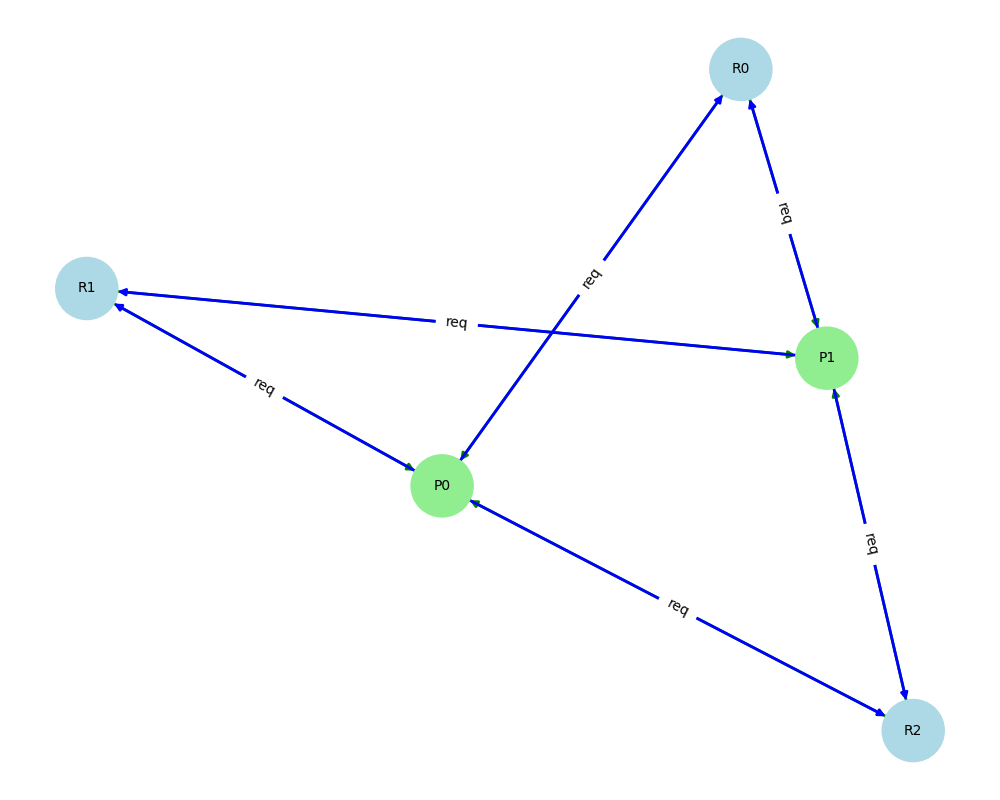
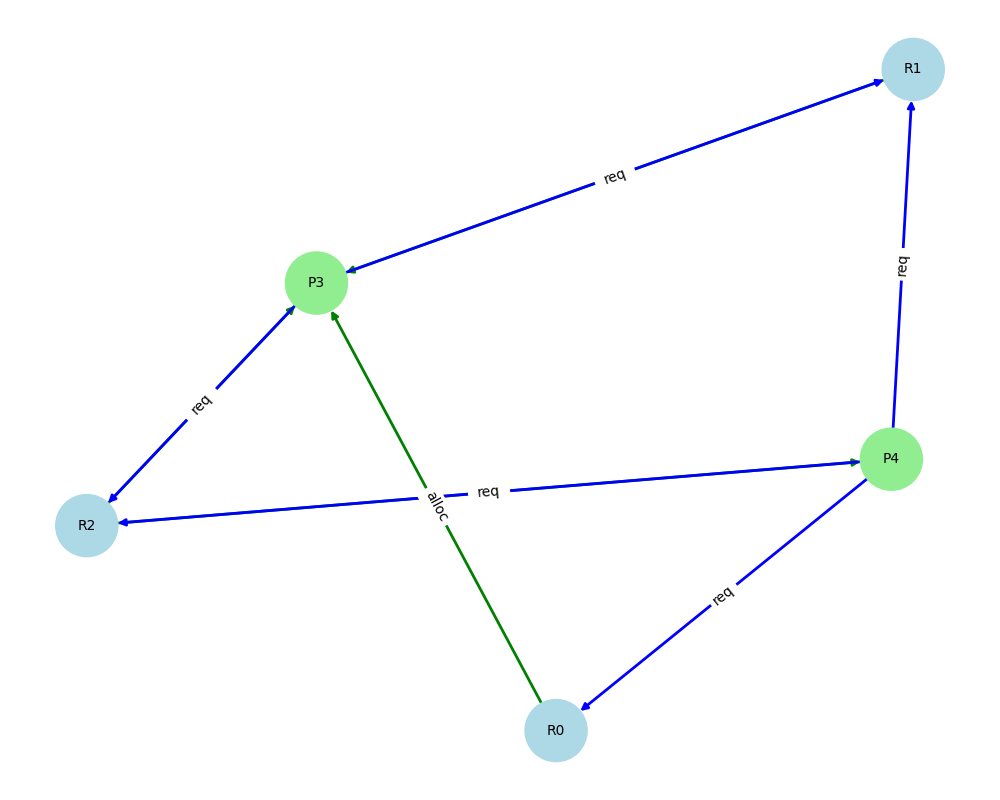
handled rewrite of PIDs

diff --git a/frontend/templates/index.html b/frontend/templates/index.html
@@ -41,100 +41,91 @@
     </div>
 
     <script>
-        let currentSystemState = null;
+    let currentSystemState = null;
 
-        async function checkDeadlock() {
-            const num_processes = parseInt(document.getElementById('num').value);
-            const total = document.getElementById('total').value.trim().split(' ').map(Number);
-            const alloc = document.getElementById('alloc').value.trim().split(',').map(row => row.trim().split(' ').map(Number));
-            const max = document.getElementById('max').value.trim().split(',').map(row => row.trim().split(' ').map(Number));
+    async function checkDeadlock() {
+        const num_processes = parseInt(document.getElementById('num').value);
+        const total = document.getElementById('total').value.trim().split(' ').map(Number);
+        const alloc = document.getElementById('alloc').value.trim().split(',').map(row => row.trim().split(' ').map(Number));
+        const max = document.getElementById('max').value.trim().split(',').map(row => row.trim().split(' ').map(Number));
 
-            currentSystemState = {
-                num_processes: num_processes,
-                resource_totals: total,
-                allocation: alloc,
-                maximum: max,
-                terminated_processes: []
-            };
+        currentSystemState = {
+            num_processes: num_processes,
+            resource_totals: total,
+            allocation: alloc,
+            maximum: max,
+            terminated_processes: []
+        };
 
-            const response = await analyzeSystem(currentSystemState);
-            displayResults(response);
+        const response = await analyzeSystem(currentSystemState);
+        displayResults(response);
+    }
+
+    async function terminateProcess() {
+        if (!currentSystemState) return;
+
+        const recommendationText = document.querySelector('.recommendation strong').nextSibling.textContent.trim();
+        const pid = parseInt(recommendationText.match(/P(\d+)/)[1]);
+
+        currentSystemState.terminated_processes.push(pid);
+
+        // Do NOT remove process from allocation or maximum
+        // Let backend skip based on `terminated_processes`
+        const response = await analyzeSystem(currentSystemState);
+        displayResults(response);
+    }
+
+    async function analyzeSystem(systemState) {
+        const response = await fetch('/check', {
+            method: 'POST',
+            headers: { 'Content-Type': 'application/json' },
+            body: JSON.stringify(systemState)
+        });
+        return await response.json();
+    }
+
+    function displayResults(data) {
+        const outputDiv = document.getElementById('output');
+        const terminateBtn = document.getElementById('terminateBtn');
+        outputDiv.style.display = 'block';
+        outputDiv.className = 'result';
+        outputDiv.innerHTML = '';
+
+        if (data.status === 'safe') {
+            outputDiv.classList.add('safe');
+            outputDiv.innerHTML = `
+                <h3>✅ System is Safe</h3>
+                <div class="process-list">
+                    <strong>Safe Execution Sequence:</strong> ${data.safe_sequence.join(" → ")}
+                </div>
+            `;
+            terminateBtn.style.display = 'none';
+        } else if (data.status === 'deadlock') {
+            outputDiv.classList.add('deadlock');
+            outputDiv.innerHTML = `
+                <h3>⚠ Deadlock Detected</h3>
+                <div class="process-list">
+                    <strong>Deadlocked Processes:</strong> ${data.deadlocked_processes.join(", ")}
+                </div>
+                <div class="recommendation">
+                    <strong>Recommended Action:</strong> ${data.termination_recommendation}
+                </div>
+            `;
+            terminateBtn.style.display = 'block';
+        } else {
+            outputDiv.innerHTML = `<p>Error: ${data.message}</p>`;
+            terminateBtn.style.display = 'none';
         }
 
-        async function terminateProcess() {
-            if (!currentSystemState) return;
-
-            // Get the recommended process to terminate from the UI
-            const recommendationText = document.querySelector('.recommendation strong').nextSibling.textContent.trim();
-            const pid = parseInt(recommendationText.match(/P(\d+)/)[1]);
-
-            // Update the system state
-            currentSystemState.terminated_processes.push(pid);
-            currentSystemState.num_processes -= 1;
-
-            // Remove the terminated process from allocation and maximum matrices
-            currentSystemState.allocation.splice(pid, 1);
-            currentSystemState.maximum.splice(pid, 1);
-
-            // Recalculate available resources (add back the terminated process's allocations)
-            const alloc = currentSystemState.allocation.flat();
-            const total = currentSystemState.resource_totals;
-            currentSystemState.available = total.map((t, i) => t - alloc.reduce((sum, a, j) => sum + (j % total.length === i ? a : 0), 0));
-
-            const response = await analyzeSystem(currentSystemState);
-            displayResults(response);
+        const graphImg = document.getElementById('graphImg');
+        if (data.graph_url) {
+            graphImg.src = data.graph_url + '?t=' + new Date().getTime();
+            graphImg.style.display = 'block';
+        } else {
+            graphImg.style.display = 'none';
         }
+    }
+</script>
 
-        async function analyzeSystem(systemState) {
-            const response = await fetch('/check', {
-                method: 'POST',
-                headers: { 'Content-Type': 'application/json' },
-                body: JSON.stringify(systemState)
-            });
-            return await response.json();
-        }
-
-        function displayResults(data) {
-            const outputDiv = document.getElementById('output');
-            const terminateBtn = document.getElementById('terminateBtn');
-            outputDiv.style.display = 'block';
-            outputDiv.className = 'result';
-            outputDiv.innerHTML = '';
-
-            if (data.status === 'safe') {
-                outputDiv.classList.add('safe');
-                outputDiv.innerHTML = `
-                    <h3>✅ System is Safe</h3>
-                    <div class="process-list">
-                        <strong>Safe Execution Sequence:</strong> ${data.safe_sequence.join(" → ")}
-                    </div>
-                `;
-                terminateBtn.style.display = 'none';
-            } else if (data.status === 'deadlock') {
-                outputDiv.classList.add('deadlock');
-                outputDiv.innerHTML = `
-                    <h3>⚠ Deadlock Detected</h3>
-                    <div class="process-list">
-                        <strong>Deadlocked Processes:</strong> ${data.deadlocked_processes.join(", ")}
-                    </div>
-                    <div class="recommendation">
-                        <strong>Recommended Action:</strong> ${data.termination_recommendation}
-                    </div>
-                `;
-                terminateBtn.style.display = 'block';
-            } else {
-                outputDiv.innerHTML = `<p>Error: ${data.message}</p>`;
-                terminateBtn.style.display = 'none';
-            }
-
-            const graphImg = document.getElementById('graphImg');
-            if (data.graph_url) {
-                graphImg.src = data.graph_url + '?t=' + new Date().getTime();
-                graphImg.style.display = 'block';
-            } else {
-                graphImg.style.display = 'none';
-            }
-        }
-    </script>
 </body>
 </html>

diff --git a/frontend/app.py b/frontend/app.py
@@ -35,43 +35,38 @@ def check_deadlock():
         # Initialize system
         system = System(resource_totals)
 
-        # Add processes and allocations (skip terminated ones)
-        for i, max_need in enumerate(max_needs):
+        # Add processes and their allocations (skipping terminated ones)
+        for i, (max_need, alloc) in enumerate(zip(max_needs, allocations)):
             if i not in terminated_processes:
-                system.add_process(max_need)
-
-        # Apply allocations (only for non-terminated processes)
-        active_process_index = 0
-        for i, alloc in enumerate(allocations):
-            if i not in terminated_processes:
-                system.processes[active_process_index].allocate(alloc)
-                for j in range(len(alloc)):
-                    system.resources[j].allocate(alloc[j])
-                    system.available[j] -= alloc[j]
-                active_process_index += 1
+                system.add_process(i, max_need, alloc)
 
         # Check safety using Banker's algorithm
-        is_safe, safe_sequence = system.is_safe()
+        is_safe, safe_sequence = system.is_safe(terminated_processes)
+
         deadlocked = []
         termination_recommendation = None
         termination_pid = None
 
-        # If unsafe, detect deadlock using WFG
         if not is_safe:
             wfg = WFG(system)
             wfg.build_graph()
             deadlocked = wfg.detect_deadlock()
             termination_pid = wfg.recommend_process_to_terminate()
             if termination_pid is not None:
-                termination_recommendation = (
-                    f"Terminate P{termination_pid} to break circular wait. "
-                    f"This process holds resources: {system.processes[termination_pid].allocation}"
-                )
+                process_index = next((i for i, p in enumerate(system.processes) if p.pid == termination_pid), None)
+                if process_index is not None:
+                    held_resources = system.processes[process_index].allocation
+                    termination_recommendation = (
+                        f"Terminate P{termination_pid} to break circular wait. "
+                        f"This process holds resources: {held_resources}"
+                    )
+            else:
+                termination_recommendation = "No further termination recommendation available. Deadlock may persist or system is unrecoverable."
+
 
         # Generate Resource Allocation Graph
         G = nx.DiGraph()
 
-        # Add nodes (only active processes)
         for i in range(len(system.resources)):
             G.add_node(f"R{i}", shape='s', color='lightblue')
 
@@ -79,7 +74,6 @@ def check_deadlock():
             node_color = 'red' if not is_safe and p.pid in deadlocked else 'lightgreen'
             G.add_node(f"P{p.pid}", shape='o', color=node_color)
 
-        # Add edges
         for p in system.processes:
             for r in range(len(p.allocation)):
                 if p.allocation[r] > 0:
@@ -90,11 +84,10 @@ def check_deadlock():
                 if p.need[r] > 0:
                     edge_color = 'darkred' if not is_safe and p.pid in deadlocked else 'blue'
                     G.add_edge(f"P{p.pid}", f"R{r}", label='req', color=edge_color)
-        # Draw graph
+
         pos = nx.spring_layout(G)
         plt.figure(figsize=(10, 8))
-        
-        # Color nodes
+
         node_colors = []
         for node in G.nodes():
             if node.startswith('R'):
@@ -103,7 +96,7 @@ def check_deadlock():
                 pid = int(node[1:])
                 if not is_safe:
                     if deadlocked and pid in deadlocked:
-                        node_colors.append('red' if 'termination_pid' in locals() and pid == termination_pid else 'orange')
+                        node_colors.append('red' if pid == termination_pid else 'orange')
                     else:
                         node_colors.append('lightgreen')
                 else:
@@ -115,7 +108,7 @@ def check_deadlock():
         nx.draw(G, pos, with_labels=True, node_color=node_colors, 
                node_size=2000, edge_color=edge_colors, width=2, font_size=10)
         nx.draw_networkx_edge_labels(G, pos, edge_labels=edge_labels)
-        
+
         title = "Resource Allocation Graph (Safe State)" if is_safe else "Deadlock Detected"
         plt.title(title)
         plt.savefig(os.path.join(STATIC_FOLDER, "graph.png"))

diff --git a/frontend/system/system.py b/frontend/system/system.py
@@ -9,16 +9,40 @@ class System:
         self.processes: List[Process] = []
         self.available = resource_totals.copy()
 
-    def add_process(self, max_needs: List[int]) -> int:
-        pid = len(self.processes)
+    def add_process(self, pid: int, max_needs: List[int], allocation: List[int]):
         process = Process(pid, max_needs)
+        process.allocate(allocation)
+        for j in range(len(allocation)):
+            self.resources[j].allocate(allocation[j])
+            self.available[j] -= allocation[j]
         self.processes.append(process)
-        return pid
 
-    def is_safe(self) -> Tuple[bool, List[int]]:
+    def is_safe(self, terminated_processes: List[int] = []) -> Tuple[bool, List[int]]:
+        # Filter out terminated processes
+        filtered_max_need = []
+        filtered_allocation = []
+        filtered_available = self.available[:]
+        active_process_ids = []
+
+        for i, p in enumerate(self.processes):
+            if p.pid in terminated_processes:
+                # Add the terminated process's allocation back to available resources
+                for j in range(len(p.allocation)):
+                    filtered_available[j] += p.allocation[j]
+                continue
+
+            filtered_max_need.append(p.max)
+            filtered_allocation.append(p.allocation)
+            active_process_ids.append(p.pid)
+
+        # Run Banker's algorithm on filtered data
         banker = Banker(
-            available=self.available[:],
-            max_need=[p.max for p in self.processes],
-            allocated=[p.allocation for p in self.processes]
+            available=filtered_available,
+            max_need=filtered_max_need,
+            allocated=filtered_allocation
         )
-        return banker.is_safe_state()
+        is_safe, sequence = banker.is_safe_state()
+
+        # Map the safe sequence indices back to actual PIDs
+        actual_sequence = [active_process_ids[i] for i in sequence] if is_safe else []
+        return is_safe, actual_sequence
